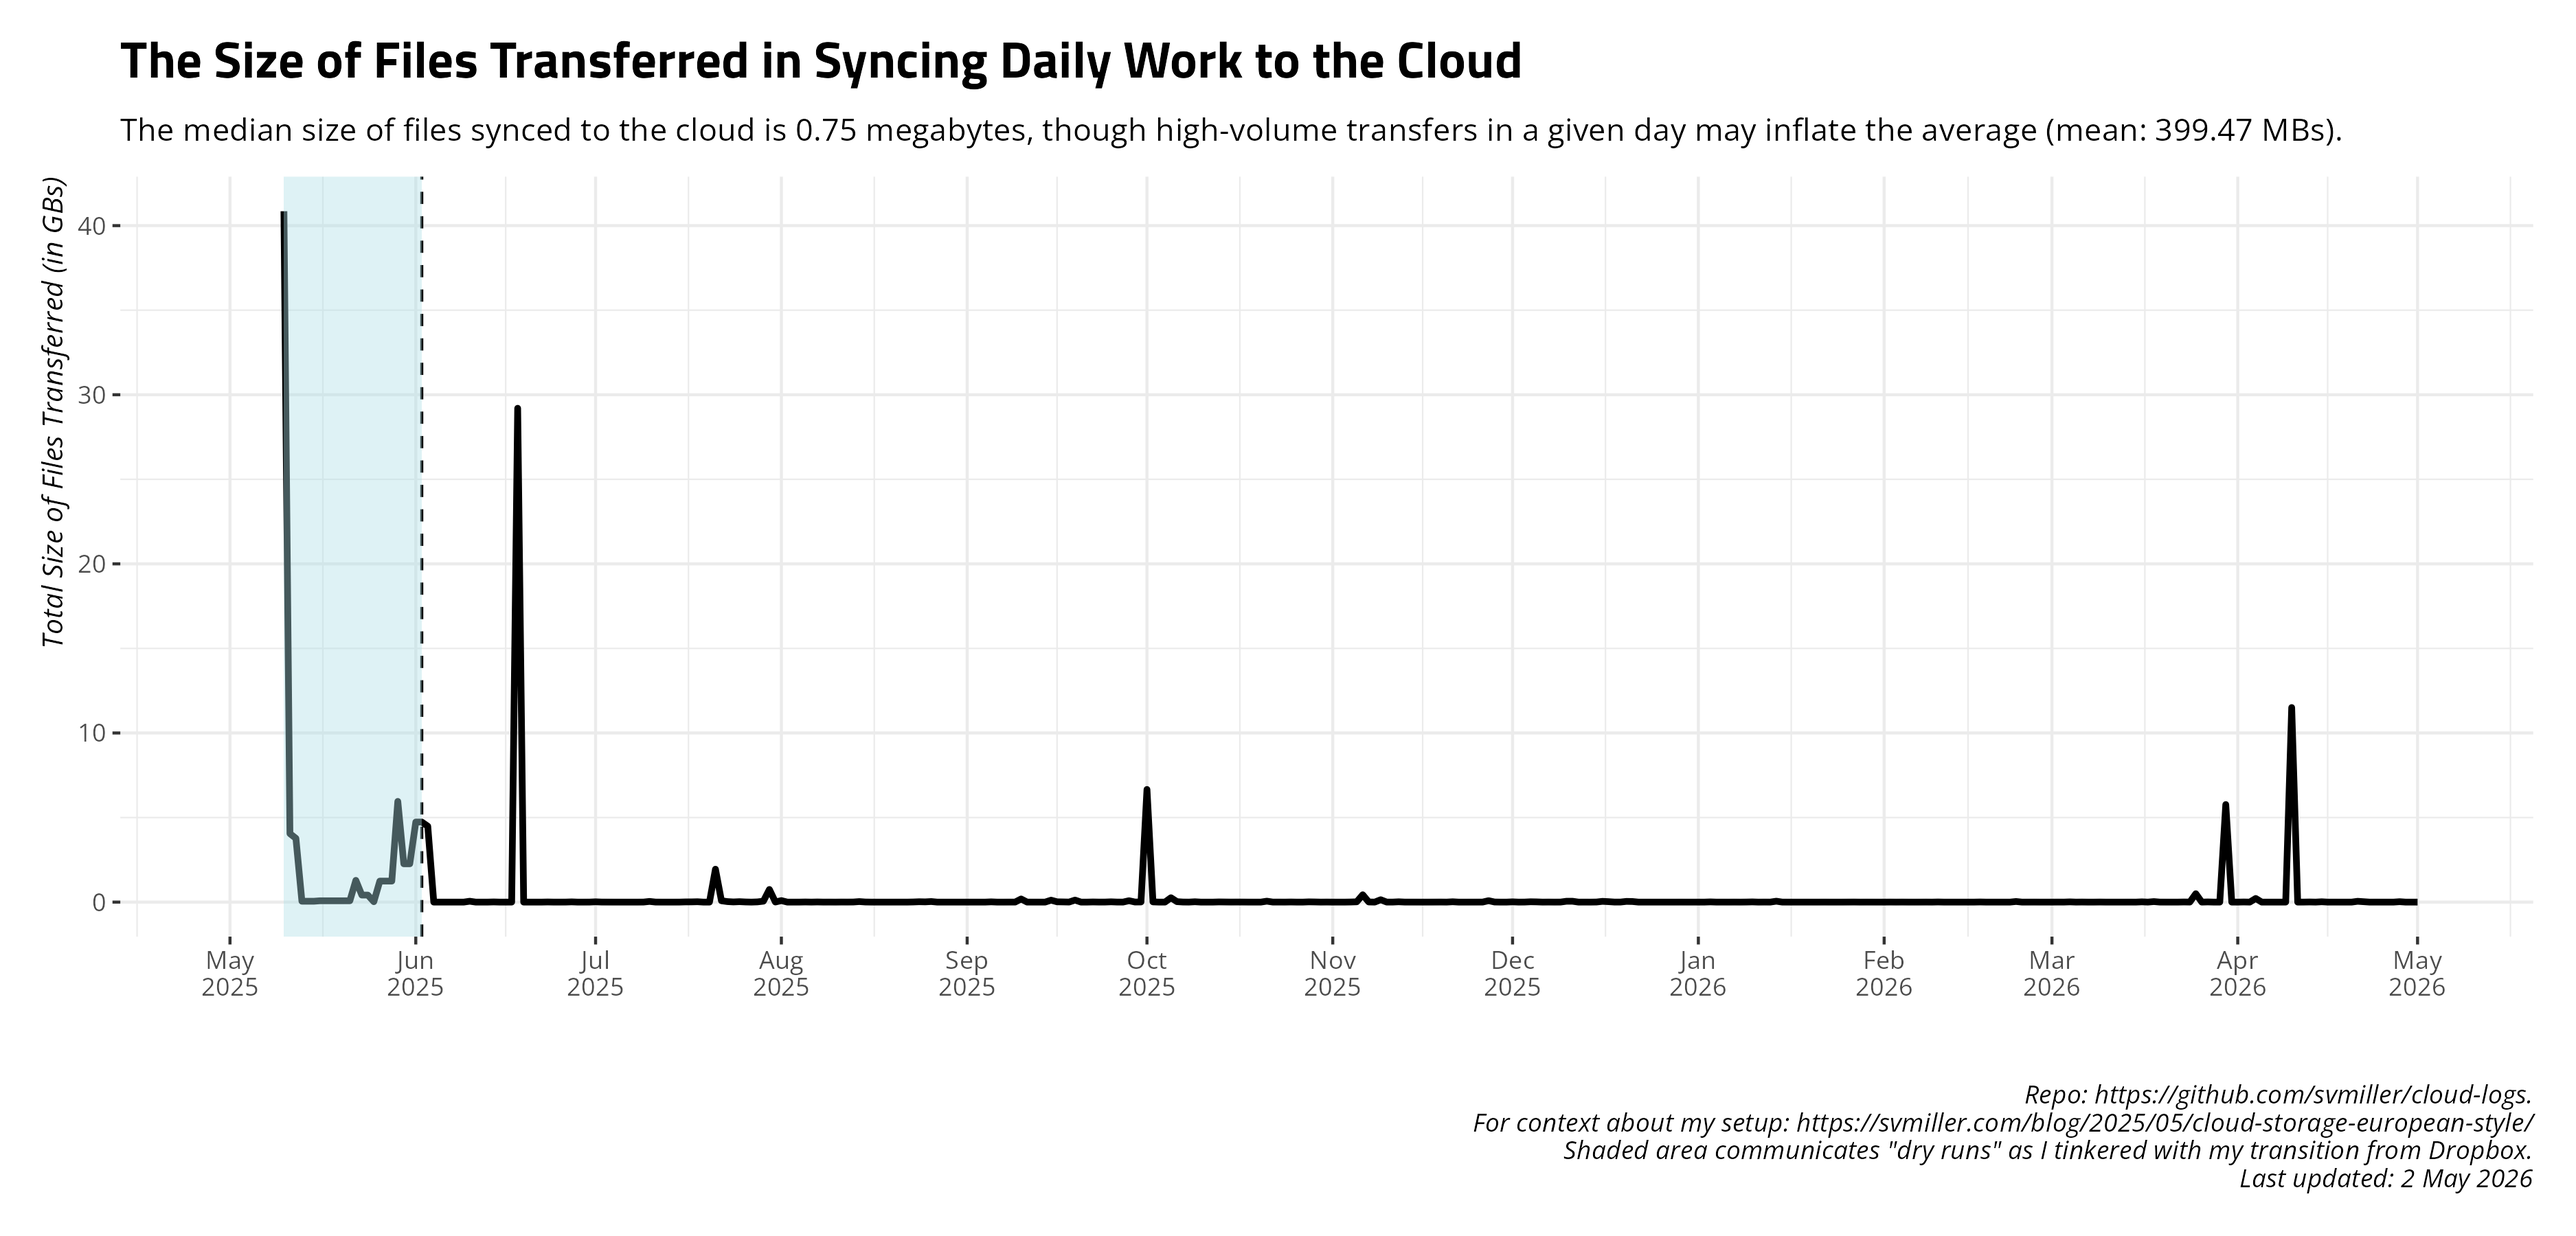
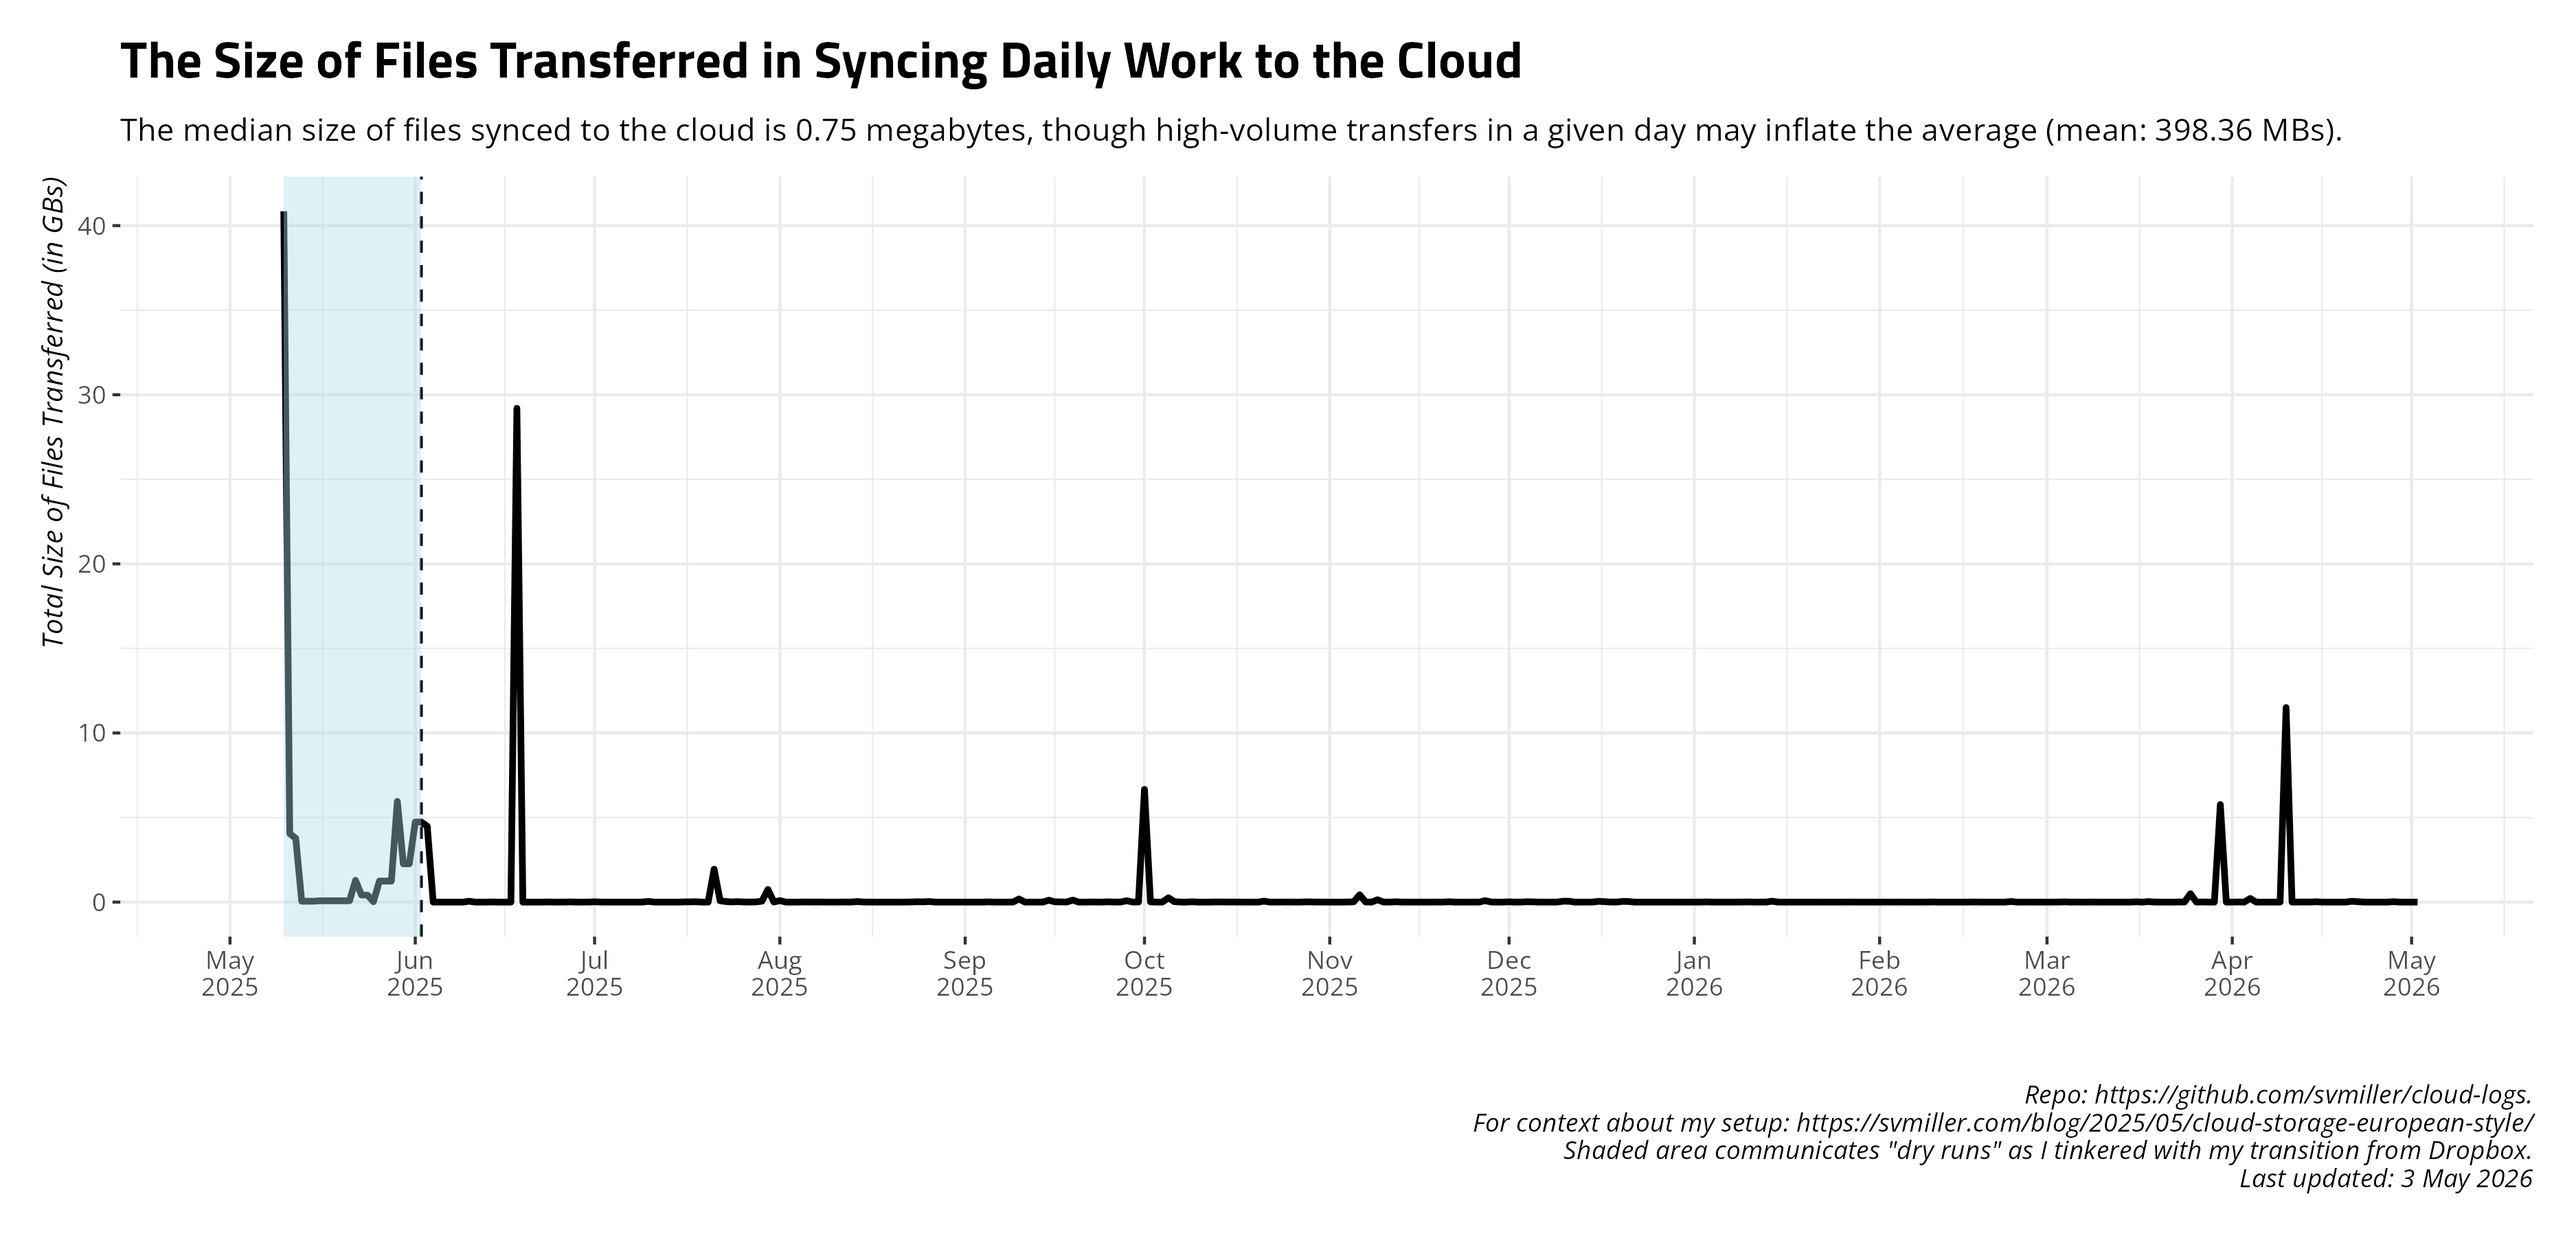
Date: 2026-05-03 09:00:27. Hi mom!

diff --git a/README.md b/README.md
@@ -27,17 +27,17 @@ and uploads to Github.
     #> # A tibble: 14 × 4
     #>    date       ftransfer stransfer   elapsed
     #>    <date>         <dbl> <chr>       <chr>  
-    #>  1 2026-04-18         0 <NA>        5m13.0s
-    #>  2 2026-04-19         0 <NA>        5m11.6s
-    #>  3 2026-04-20        37 447.805 KiB 5m28.2s
-    #>  4 2026-04-21        37 48.112 MiB  5m16.4s
-    #>  5 2026-04-22         2 23.825 MiB  5m17.3s
-    #>  6 2026-04-23         0 <NA>        5m13.8s
-    #>  7 2026-04-24        63 494.966 KiB 4m27.8s
-    #>  8 2026-04-25         0 <NA>        5m15.6s
-    #>  9 2026-04-26         0 <NA>        5m13.9s
-    #> 10 2026-04-27         0 <NA>        4m22.7s
-    #> 11 2026-04-28       100 24.243 MiB  5m28.1s
-    #> 12 2026-04-29        11 127.409 KiB 5m17.3s
-    #> 13 2026-04-30         1 6.233 KiB   5m12.5s
-    #> 14 2026-05-01         0 <NA>        5m13.2s
+    #>  1 2026-04-19         0 <NA>        5m11.6s
+    #>  2 2026-04-20        37 447.805 KiB 5m28.2s
+    #>  3 2026-04-21        37 48.112 MiB  5m16.4s
+    #>  4 2026-04-22         2 23.825 MiB  5m17.3s
+    #>  5 2026-04-23         0 <NA>        5m13.8s
+    #>  6 2026-04-24        63 494.966 KiB 4m27.8s
+    #>  7 2026-04-25         0 <NA>        5m15.6s
+    #>  8 2026-04-26         0 <NA>        5m13.9s
+    #>  9 2026-04-27         0 <NA>        4m22.7s
+    #> 10 2026-04-28       100 24.243 MiB  5m28.1s
+    #> 11 2026-04-29        11 127.409 KiB 5m17.3s
+    #> 12 2026-04-30         1 6.233 KiB   5m12.5s
+    #> 13 2026-05-01         0 <NA>        5m13.2s
+    #> 14 2026-05-02         0 <NA>        5m10.8s
